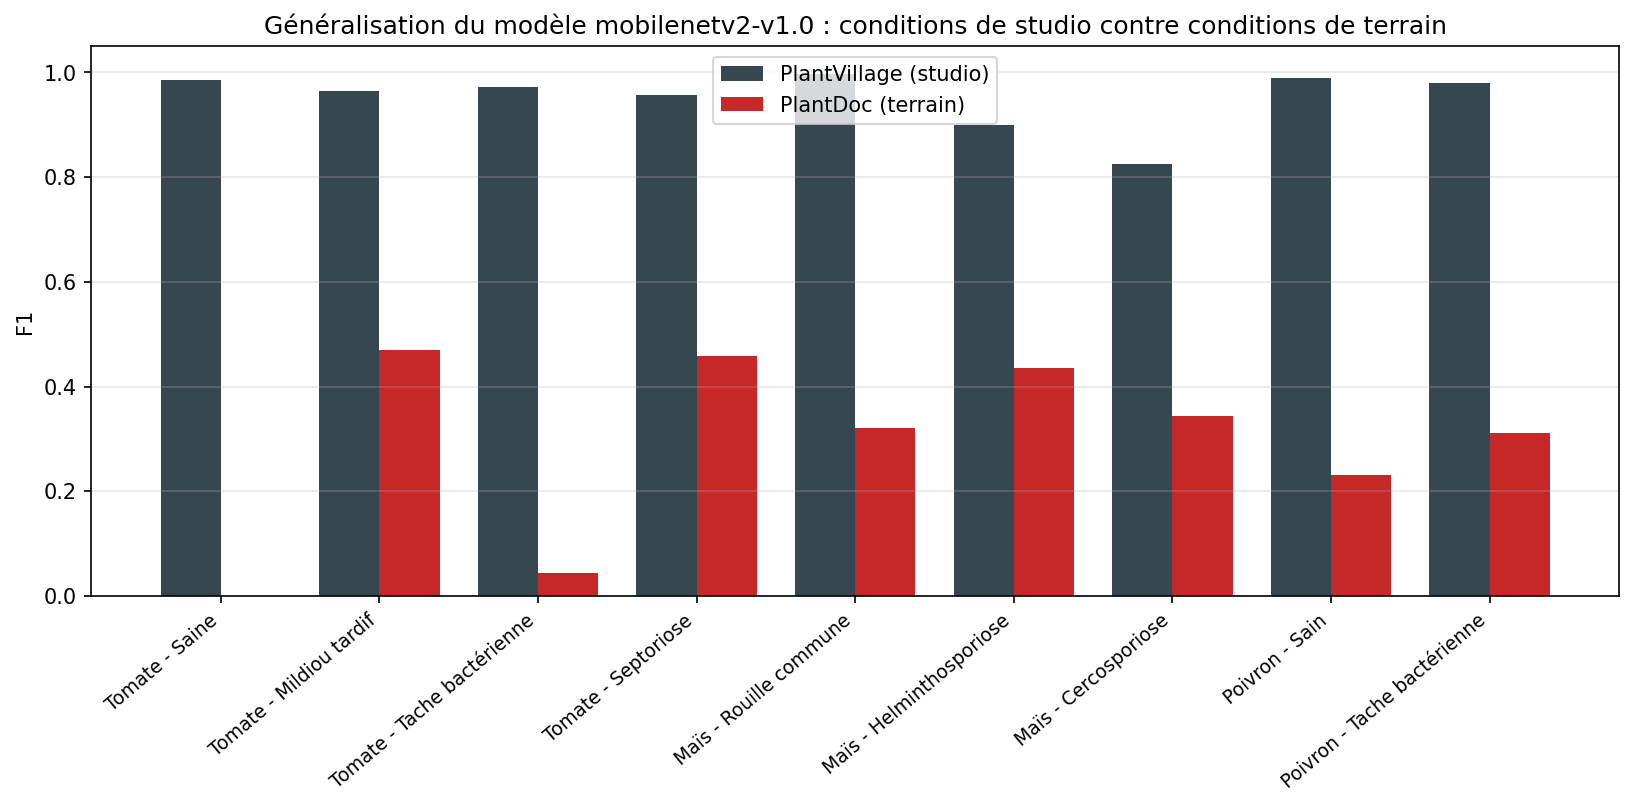
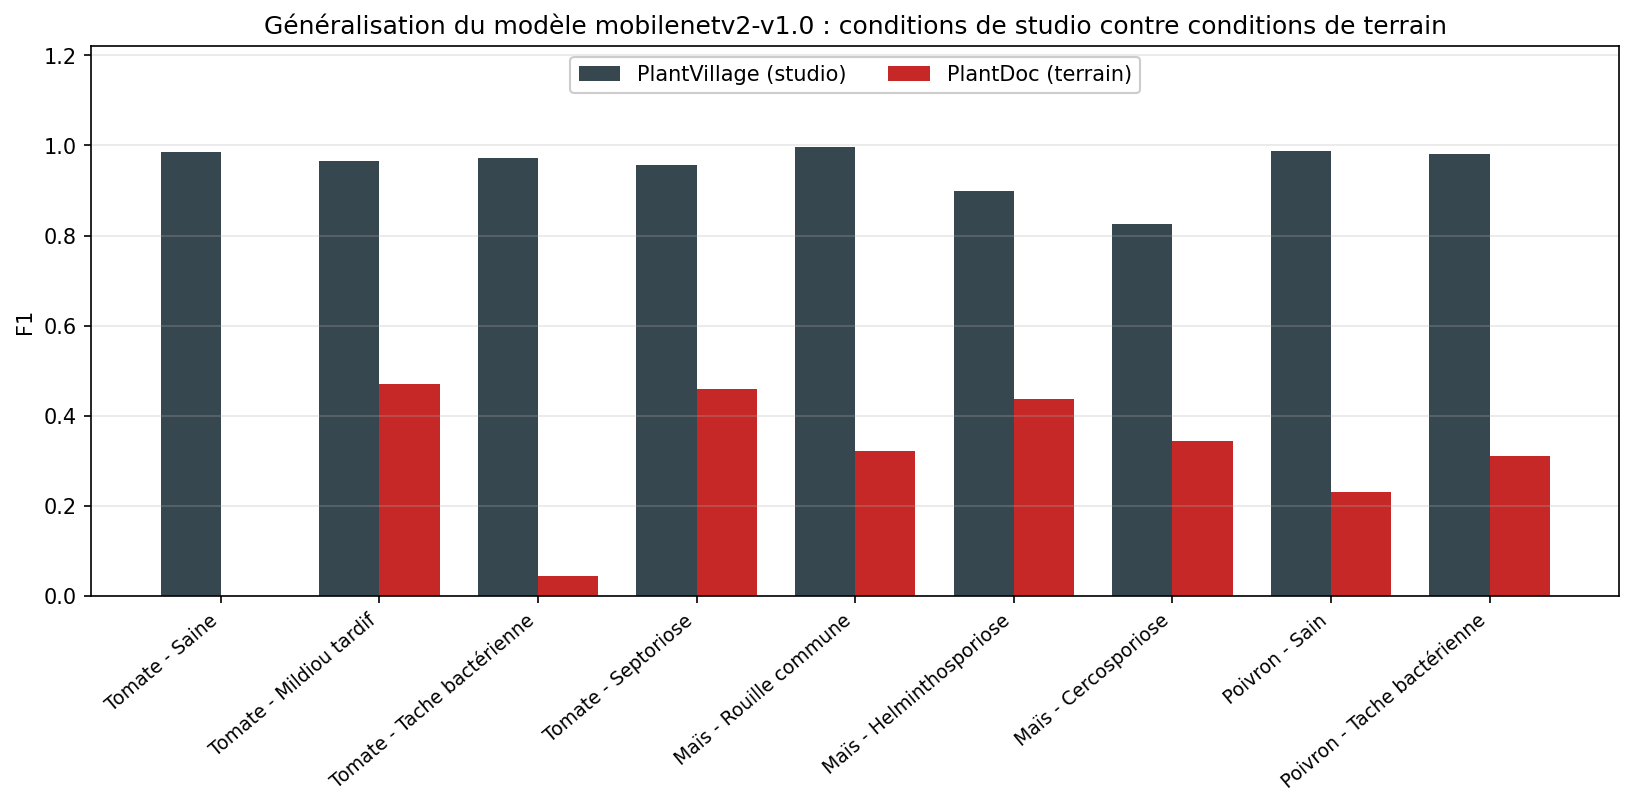
Dégage la légende des barres dans la figure de robustesse
Les barres de studio frolent 1,0 et la legende venait se poser dessus, masquant
entierement « Mais - Rouille commune ». La figure part dans le rapport, une
classe cachee n'y passerait pas. Marge portee a 1,22 et legende sur une ligne
au-dessus des barres.

Vérifié : figure relue, les neuf classes sont visibles ; le JSON regenere est
identique au precedent, la mesure est donc deterministe.

diff --git a/src/model/evaluation_terrain.py b/src/model/evaluation_terrain.py
@@ -309,10 +309,12 @@ def main():
                 label="PlantDoc (terrain)", color="#c62828")
         axe.set_xticks(positions, [libelles[i] for i in couvertes], rotation=40, ha="right", fontsize=9)
         axe.set_ylabel("F1")
-        axe.set_ylim(0, 1.05)
+        # Les barres de studio frolent 1,0 : sans marge au-dessus, la legende
+        # se pose dessus et masque une classe.
+        axe.set_ylim(0, 1.22)
         axe.set_title(f"Généralisation du modèle {version} : "
                       "conditions de studio contre conditions de terrain")
-        axe.legend()
+        axe.legend(loc="upper center", ncol=2, framealpha=1.0)
         axe.grid(axis="y", alpha=0.3)
         plt.tight_layout()
         plt.savefig(DOSSIER_RAPPORTS / f"robustesse_terrain_{suffixe}.png",
